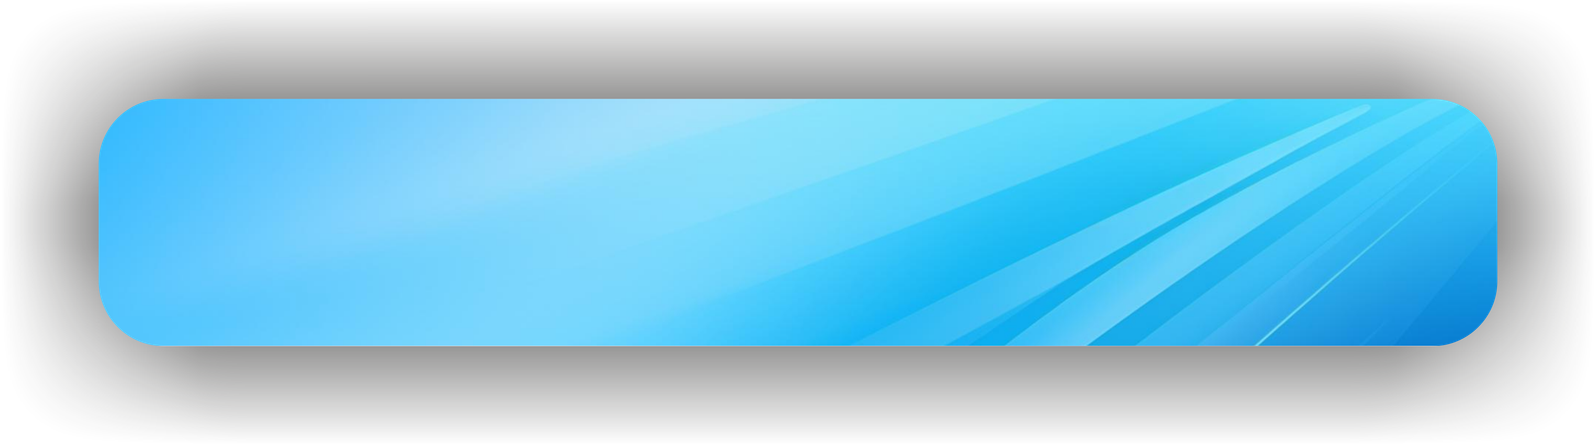
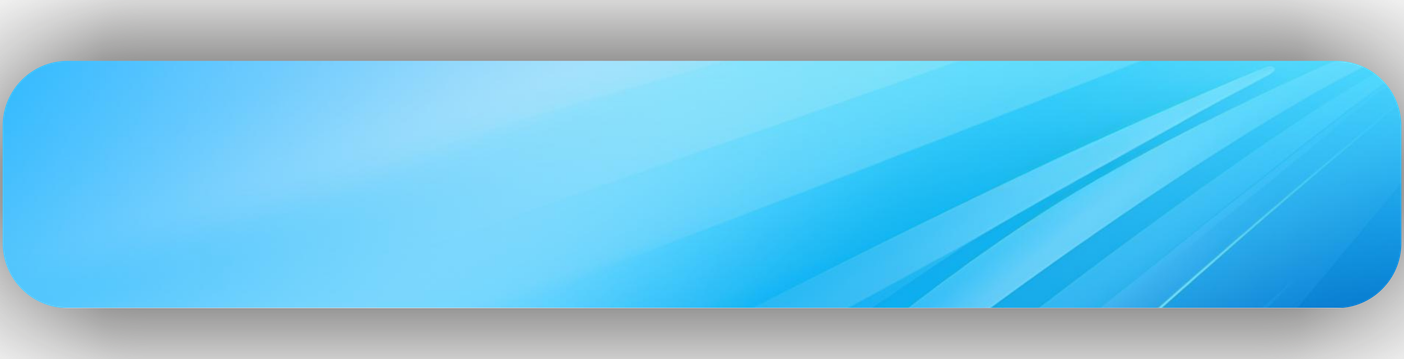
fixes applied

diff --git a/src/app/index.tsx b/src/app/index.tsx
@@ -72,14 +72,14 @@ export default function App() {
         source={require("../assets/bg.jpg")}
         // For local images use: source={require('./assets/bg.png')}
         resizeMode="cover"
-        style={styles.image}
+        style={styles.mainBG}
       >
         <ScrollView contentContainerStyle={{ flexGrow: 1 }}>
           <View style={styles.container}>
             {/* Top - Logo & Info */}
             <View style={styles.header}>
               <Image source={logoImage} style={styles.logo} resizeMode="contain" />
-              <Text style={styles.subtitle}>Łączyć a nie dzielić</Text>
+              <Text style={styles.title}>Polskie Radio Scotland</Text>
             </View>
 
             {/* Middle - Main Controls & Metadata (Moved Higher) */}
@@ -95,20 +95,37 @@ export default function App() {
                 )}
               </View>
 
-              <TouchableOpacity onPress={togglePlayPause} style={styles.playButton} activeOpacity={0.8}>
-                {isPlaying ? <Pause size={48} color="#18181b" fill="#18181b" /> : <Play size={48} color="#18181b" fill="#18181b" style={{ marginLeft: 6 }} />}
+              <TouchableOpacity onPress={togglePlayPause} activeOpacity={0.8}>
+                <ImageBackground
+                  source={require("../assets/play-bg.png")}
+                  // For local images use: source={require('./assets/bg.png')}
+                  resizeMode="cover"
+                  style={styles.playButtonBg}
+                >
+                  {isPlaying ? <Pause size={60} color="#fff" fill="#fff" /> : <Play size={60} color="#fff" fill="#fff" style={{ marginLeft: 6 }} />}
+                </ImageBackground>
               </TouchableOpacity>
             </View>
 
-            {/* Bottom - Social Media spacing adjusted to look balanced */}
-            <View style={styles.footer}>
-              <View style={styles.socialRow}>
-                {socialLinks.map(({ icon: Icon, label, url }) => (
-                  <TouchableOpacity key={label} onPress={() => Linking.openURL(url)} style={styles.socialIcon}>
-                    <Icon size={24} color="white" />
-                  </TouchableOpacity>
-                ))}
-              </View>
+            <Image source={require("../assets/tune.png")} style={{ width: 80, height: 80, marginTop: 20, marginHorizontal: "auto" }} resizeMode="contain" />
+
+            <View style={{ borderRadius: 20, overflow: "hidden", width: "100%", maxWidth: "100%", alignSelf: "center" }}>
+              <ImageBackground
+                source={require("../assets/footer-bg.png")}
+                // For local images use: source={require('./assets/bg.png')}
+                resizeMode="cover"
+                style={styles.socialLinkBg}
+              >
+                <View style={styles.footer}>
+                  <View style={styles.socialRow}>
+                    {socialLinks.map(({ icon: Icon, label, url }) => (
+                      <TouchableOpacity key={label} onPress={() => Linking.openURL(url)} style={styles.socialIcon}>
+                        <Icon size={24} color="white" />
+                      </TouchableOpacity>
+                    ))}
+                  </View>
+                </View>
+              </ImageBackground>
             </View>
           </View>
         </ScrollView>
@@ -122,7 +139,8 @@ const styles = StyleSheet.create({
     flex: 1,
   },
   safeArea: { flex: 1 },
-  container: { flex: 1, paddingHorizontal: 20 },
+  container: { flex: 1 },
+  mainBG: { flex: 1 },
   image: {
     flex: 1,
     justifyContent: "center", // Centers children vertically
@@ -132,7 +150,8 @@ const styles = StyleSheet.create({
   // Decreased header flex size from 2 to 1.5 to push things upward
   header: { flex: 1.5, justifyContent: "center", alignItems: "center", paddingTop: 40 },
   logo: { width: 180, height: 180, marginBottom: 10 },
-  subtitle: { color: "#a1a1aa", fontSize: 18 },
+  title: { color: "#fff", fontSize: 22, fontWeight: "600" },
+  playButtonBg: { width: 120, height: 120, justifyContent: "center", alignItems: "center" },
 
   // Kept flex 1.5 but layout will shift upwards due to overall flex changes
   controls: { flex: 1.5, justifyContent: "flex-start", alignItems: "center", paddingTop: 10 },
@@ -153,23 +172,15 @@ const styles = StyleSheet.create({
     textAlign: "center",
   },
 
-  playButton: {
-    width: 96,
-    height: 96,
-    borderRadius: 48,
-    backgroundColor: "white",
-    justifyContent: "center",
-    alignItems: "center",
-    elevation: 8,
-    shadowColor: "#000",
-    shadowOffset: { width: 0, height: 4 },
-    shadowOpacity: 0.3,
-    shadowRadius: 5,
-  },
-
+  socialLinkBg: { width: "100%", height: 100, justifyContent: "center", alignItems: "center" },
   // Increased footer flex from 1 to 1.2 to claim more space at bottom, forcing center section up
-  footer: { flex: 1.2, justifyContent: "flex-end", marginBottom: 40 },
-  socialRow: { flexDirection: "row", justifyContent: "center", gap: 20 },
+  footer: { flex: 1, width: "100%", justifyContent: "center" },
+  socialRow: {
+    flexDirection: "row",
+    width: "100%",
+    justifyContent: "space-evenly", // or center
+    alignItems: "center",
+  },
   socialIcon: {
     width: 56,
     height: 56,

diff --git a/metro.config.js b/metro.config.js
@@ -1,0 +1,7 @@
+// Learn more https://docs.expo.io/guides/customizing-metro
+const { getDefaultConfig } = require('expo/metro-config');
+
+/** @type {import('expo/metro-config').MetroConfig} */
+const config = getDefaultConfig(__dirname);
+
+module.exports = config;
